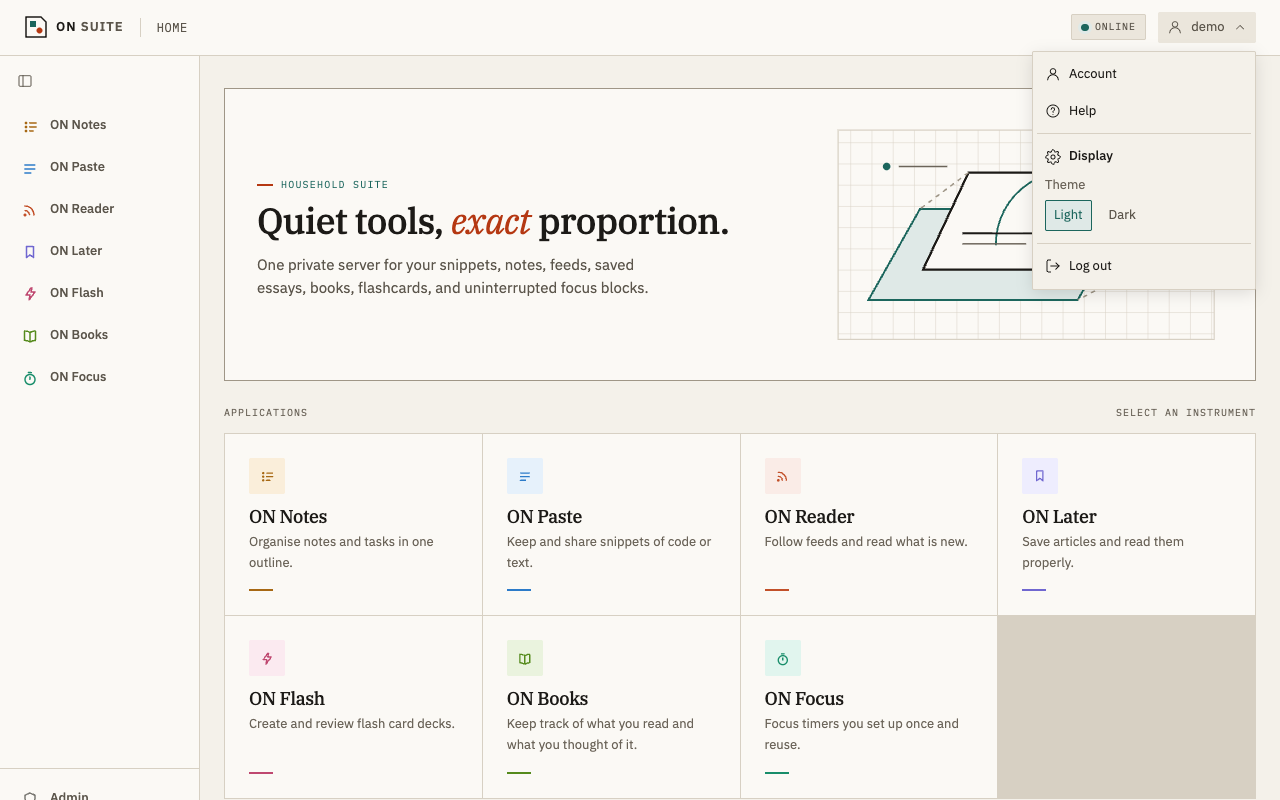
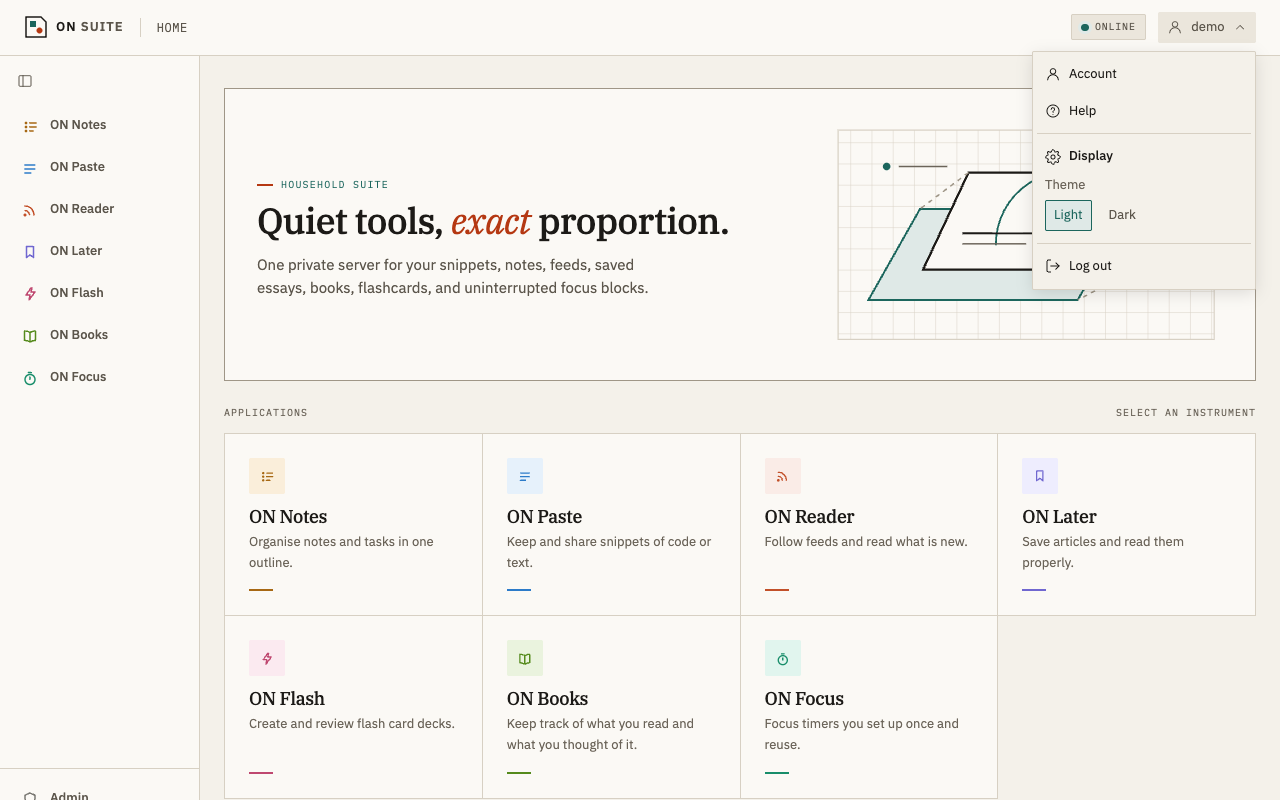
fix(ui): leave an unfilled home grid cell empty instead of a beige block
The app directory drew its hairlines by letting the grid's border-coloured
background show through 1px gaps, so with seven apps the empty eighth cell
showed as a solid block. Each card now draws its own 1px ring, which meets
its neighbour's in the gap, and the grid has no background. Re-shot the
two user-guide screenshots that show the grid.

Changed region(s): [[0.7812, 0.75, 1.0, 1.0]]

diff --git a/internal/ui/static/app.css b/internal/ui/static/app.css
@@ -815,8 +815,12 @@ button, .button {
 	display: grid;
 	grid-template-columns: repeat(auto-fill, minmax(15.5rem, 1fr));
 	gap: 1px;
-	background: var(--c-border);
-	border: 1px solid var(--c-border);
+	/* Each card draws its own 1px ring, which meets its neighbour's in the
+	 * 1px gap; the padding keeps the outer ring inside the grid's box. A
+	 * row the apps don't fill then ends cleanly on the page background,
+	 * where a border-coloured grid background would show through as a
+	 * solid block. */
+	padding: 1px;
 }
 
 .app-card {
@@ -824,6 +828,7 @@ button, .button {
 	flex-direction: column;
 	padding: var(--s-5);
 	background: var(--c-bg-subtle);
+	box-shadow: 0 0 0 1px var(--c-border);
 	color: var(--c-text);
 	text-decoration: none;
 	transition: background-color 140ms ease;

diff --git a/internal/ui/braun_folio_test.go b/internal/ui/braun_folio_test.go
@@ -205,3 +205,16 @@ func TestLoginFormComesFirstOnPhones(t *testing.T) {
 	css.mustDeclare(phone, ".login-form-pane", "order: -1")
 	css.mustDeclare(phone, ".login-art-figure", "display: none")
 }
+
+// TestHomeGridLeavesUnfilledCellsEmpty pins the home directory's hairlines:
+// each card draws its own ring, so a row the apps don't fill shows the page,
+// not a block of border colour from the grid's own background.
+func TestHomeGridLeavesUnfilledCellsEmpty(t *testing.T) {
+	css := loadAppCSS(t)
+	for _, r := range css.rulesFor(".home-grid") {
+		if strings.Contains(r.body, "background") {
+			t.Errorf(".home-grid sets a background (%q); an unfilled cell would show it", r.body)
+		}
+	}
+	css.mustDeclare("", ".app-card", "box-shadow: 0 0 0 1px var(--c-border)")
+}
